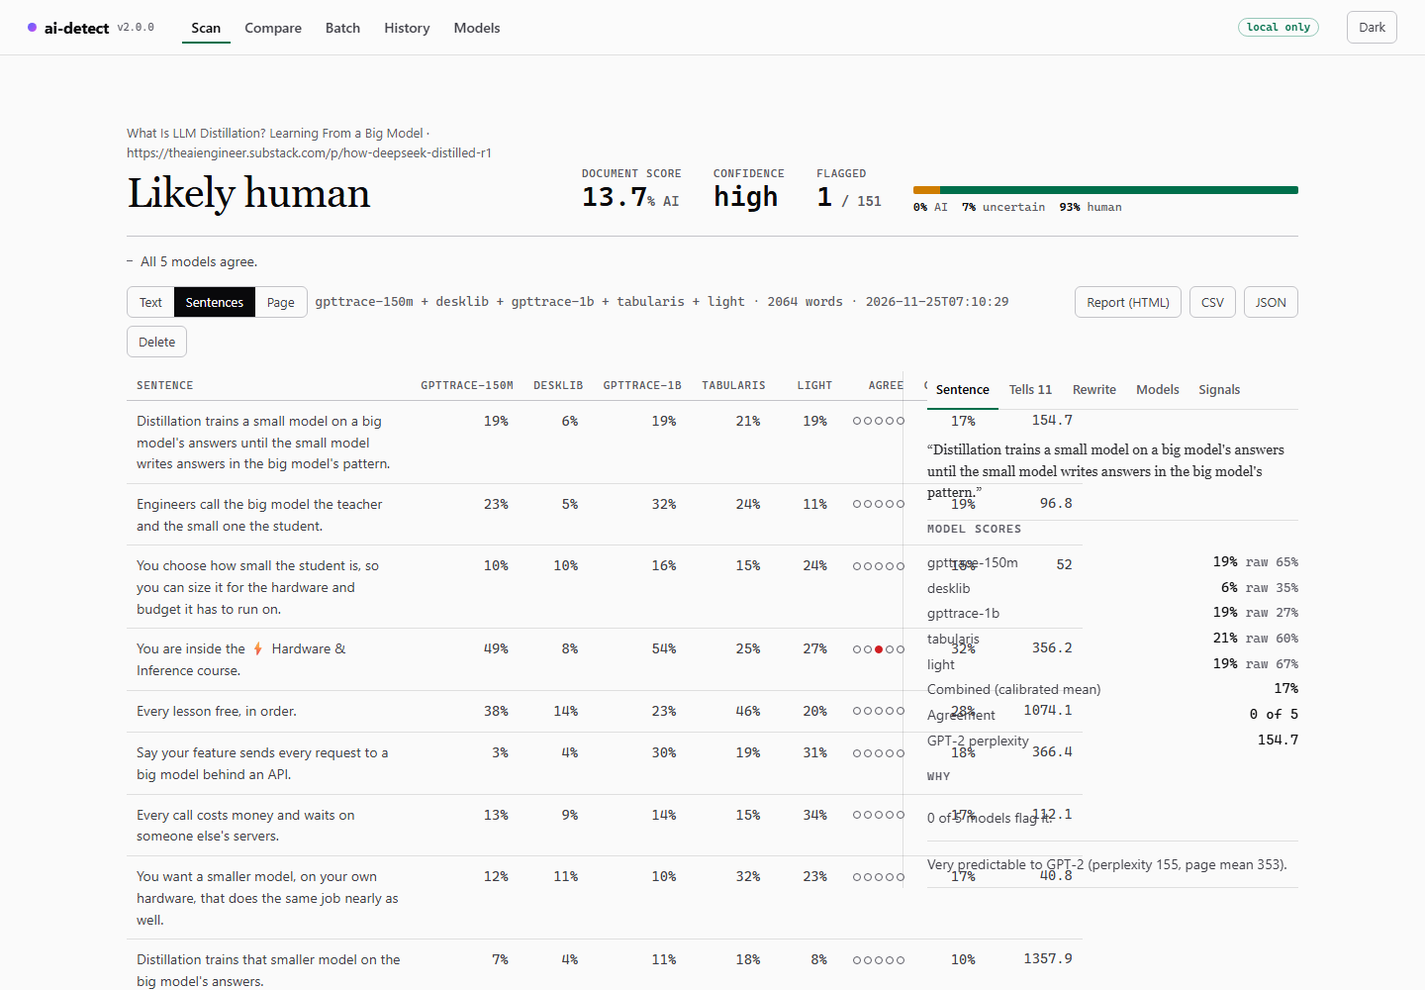
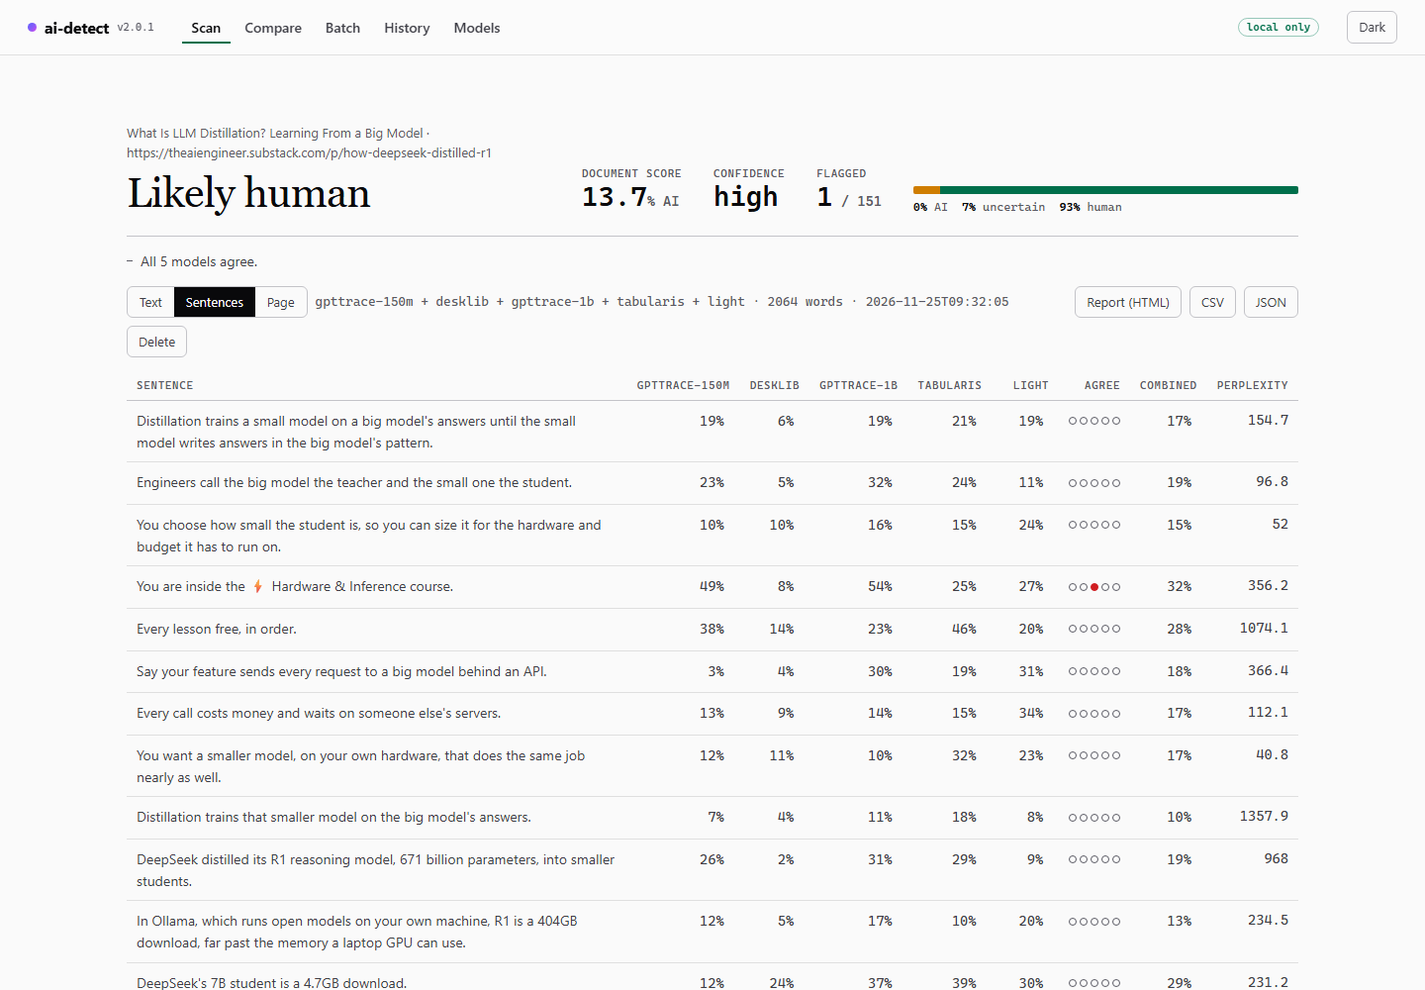
release: 2.0.1 (version, changelog, docs corrected for the 2.0.0 release, screenshots retaken)
- Version 2.0.1 in _version.py, package.json, manifest.json, server.json.
- Docs: npm package and MCP registry entry exist (2.0.0, 25 Nov 2026),
  still not on PyPI; npm commands are the forms that were run; Rewrite
  tab described as the code behaves; desklib is one of the two largest
  downloads.
- Screenshots retaken with 2.0.1; worked-example figures unchanged.

diff --git a/ai_detect/_version.py b/ai_detect/_version.py
@@ -1,1 +1,1 @@
-__version__ = "2.0.0"
+__version__ = "2.0.1"

diff --git a/docs/FEATURES.md b/docs/FEATURES.md
@@ -1,6 +1,6 @@
-# ai-detect 2.0.0: feature inventory
+# ai-detect 2.0.1: feature inventory
 
-A plain, factual list of what the tool does on the `rebuild-2026-11` branch, written for whoever writes the README. Every command output below was produced by running that command on 25 Nov 2026 (Windows 11, Python 3.13, CPU); this file is generated by `scripts/build_features_doc.py` from `docs/features.template.md`, so re-run the script after a code change. Model facts carry their source and read date. Nothing here is published: no PyPI, npm or registry upload has been made.
+A plain, factual list of what the tool does, from the code on the `main` branch, written for whoever writes the README. Every command output below was produced by running that command on 25 Nov 2026 (Windows 11, Python 3.13, CPU); this file is generated by `scripts/build_features_doc.py` from `docs/features.template.md`, so re-run the script after a code change. Model facts carry their source and read date. Published on 25 Nov 2026: the npm package `@houtini/ai-detect` (2.0.0) and the MCP registry entry `io.github.houtini-ai/ai-detect` (active). It is not on PyPI.
 
 Related documents: `docs/MODEL-EVAL-2026-11.md` (measurements and which model to pick), `docs/HOW-IT-WORKS.md` (diagrams), `CHANGELOG.md`, `THIRD-PARTY-MODELS.md`.
 
@@ -10,7 +10,18 @@ A local AI-text detector. It scores writing with open detector models that run o
 
 ## 2. Install, exactly as it works today
 
-Not on PyPI and not on npm (both names checked free on 24 Nov 2026: `https://pypi.org/pypi/ai-detect/json` and `https://registry.npmjs.org/@houtini%2fai-detect` return 404). Install is from a clone.
+On npm as `@houtini/ai-detect` (2.0.0 published 25 Nov 2026) and in the MCP registry as `io.github.houtini-ai/ai-detect` (active). **Not on PyPI**: there is no `pip install ai-detect`, and the pip route is from a clone. Two routes.
+
+From npm. Needs `uv` on the PATH; the launcher has `uv` supply Python and the dependencies:
+
+```bash
+npx -y --package @houtini/ai-detect ai-detect --version   # run without installing
+npm i -g @houtini/ai-detect                               # or install the `ai-detect` and `ai-detect-mcp` commands
+```
+
+Both were run against the published 2.0.0 on Windows 11 with `uv` on 25 Nov 2026. The first run took 31 s for the `npx` form and 34 s for the globally installed command, and the MCP server passed its smoke test both ways (section 4). The package has two commands, so name the one to run after `--package`.
+
+From a clone:
 
 ```bash
 git clone https://github.com/houtini-ai/ai-detect
@@ -67,7 +78,7 @@ A model that is not on disk is downloaded first, with a progress bar on stderr. 
 
 ```
 $ ai-detect --version
-ai-detect 2.0.0
+ai-detect 2.0.1
 ```
 Exit code 0.
 
@@ -322,7 +333,9 @@ Args:
     text: The text to analyse (plain text or Markdown).
     model: A model id, or up to 5 comma-separated ids to run as an ensemble
         (see list_models). Default 'gpttrace-150m'.
-    device: 'auto' (GPU if available, else CPU), 'cpu', or 'cuda'.
+    device: 'auto', 'cpu', or 'cuda'. With 'auto' the ONNX models (the default model is
+        one) run on the CPU unless a GPU build of ONNX Runtime is installed, and the
+        PyTorch models use CUDA if torch has it, else the CPU.
     include_all_sentences: Also return every scored sentence, not just flagged ones.
     perplexity: Add a GPT-2 perplexity and burstiness readout (548 MB on first use).
 
@@ -539,7 +552,7 @@ When a needed model is not on disk the same tools return, at once:
  "default_port": 18795,
  "port_fell_back": false,
  "history_enabled": true,
- "version": "2.0.0",
+ "version": "2.0.1",
  "message": "The ai-detect dashboard is at http://127.0.0.1:18795"
 }
 ```
@@ -602,7 +615,7 @@ Claude Code:
 claude mcp add ai-detect -- ai-detect-mcp
 ```
 
-After an npm release (not made yet) the command would be `npx -y @houtini/ai-detect` with `"args": ["-y", "--package", "@houtini/ai-detect", "ai-detect-mcp"]`; this form was exercised from a locally packed tarball only. The `python -m` form is the one the automated tests use. The Claude Desktop and Claude Code snippets follow those clients' standard format; they were not loaded into either client during this work: the full-path form was started the way a client starts it (the command alone, no shell, virtual environment not activated), by `scripts/smoke_mcp.mjs`.
+From npm (2.0.0, published 25 Nov 2026) the client's command is `npx` with `"args": ["-y", "--package", "@houtini/ai-detect", "ai-detect-mcp"]`, or plain `ai-detect-mcp` after `npm i -g @houtini/ai-detect`. Both were driven by an MCP client on Windows 11 with `uv` on 25 Nov 2026 (the `npx` form started through `cmd /c`) and passed the MCP smoke test. The `python -m` form is the one the automated tests use. The Claude Desktop and Claude Code snippets follow those clients' standard format; they were not loaded into either client during this work: the full-path form was started the way a client starts it (the command alone, no shell, virtual environment not activated), by `scripts/smoke_mcp.mjs`.
 
 ## 5. Web UI
 
@@ -611,7 +624,7 @@ Start: `ai-detect serve` (opens the browser), or the MCP tool `open_dashboard`, 
 | Page | What it does |
 |---|---|
 | **Scan** | Text box (paste, or drop a `.txt`/`.md`/`.html` file on it), URL box, file picker. Model picker: one model or up to five (a sixth tick is refused); shows size, RAID rank and download state. Options: perplexity; load models one at a time. Progress: per-model download bars, then per-model loading/scoring |
-| **Result** (`#/scan/<id>`) | Verdict first: label, calibrated document score, confidence, flagged count, and a bar of words reading as AI / uncertain / human, with notes. Three views: **Text** (sentences shaded amber to red by calibrated score, with an underline that changes by band; pattern matches underlined), **Sentences** (a table with one column per model, agreement dots and the combined score), **Page** (URL scans: the screenshot with tells outlined and numbered). Side panel tabs: **Sentence** (per-model scores, why, rewrite suggestions), **Tells** (click one to highlight its blocks or its region), **Rewrite** (every flagged sentence with its suggestions), **Models** (facts and each model's view), **Signals** (sentence-length variation, perplexity and burstiness, passages, optional vision second opinion). Export: HTML report, CSV, JSON. Delete |
+| **Result** (`#/scan/<id>`) | Verdict first: label, calibrated document score, confidence, flagged count, and a bar of words reading as AI / uncertain / human, with notes. Three views: **Text** (sentences shaded amber to red by calibrated score, with an underline that changes by band; pattern matches underlined), **Sentences** (a table with one column per model, agreement dots and the combined score; it takes the full width with the side panel under it, and scrolls sideways in its own box if it is still too wide), **Page** (URL scans: the screenshot with tells outlined and numbered). Side panel tabs: **Sentence** (per-model scores, why, rewrite suggestions), **Tells** (click one to highlight its blocks or its region), **Rewrite** (every sentence with a calibrated score of 50% or more, or with any pattern hit, highest score first, each with its suggestions), **Models** (facts and each model's view), **Signals** (sentence-length variation, perplexity and burstiness, passages, optional vision second opinion). Export: HTML report, CSV, JSON. Delete |
 | **Compare** | Two boxes (text or one URL each). Shows both verdicts side by side and a table: verdict, calibrated document score, sentences flagged at the operating point, then (one model only, labelled raw) the raw document score, raw mean sentence score and sentences over 50%, then pattern hits and tells, each with before, after, change |
 | **Batch** | One URL or file path per line and/or several dropped files. Rows appear as they finish; failed items show the error. CSV summary download |
 | **History** | Every scan made through the dashboard or the MCP server, newest first (command-line scans are not saved); click to reopen. The Document column is the calibrated document score, as on the result page. A switch turns saving to disk off; Clear history deletes all |
@@ -727,7 +740,7 @@ Limits: the check and the browser each resolve the name, so a DNS answer that ch
 
 Sources: https://gptzero.me/technology and https://gptzero.me/news/how-ai-detectors-work, both read 24 Nov 2026 (public pages only; no account, nothing submitted). GPTZero is a hosted product with a trained, benchmarked model; ai-detect runs other people's open models locally. The table is about features, not accuracy. On RAID's default view GPTZero is 26th of 61 (0.9724) and the best model here, GPTTrace-1B, is 2nd (0.9993), same source and date as the model table; ai-detect ships a 4-bit export of that model, not the ranked file.
 
-| Capability | GPTZero (per its pages) | ai-detect 2.0.0 | |
+| Capability | GPTZero (per its pages) | ai-detect 2.0.1 | |
 |---|---|---|---|
 | Runs without uploading the text | No, hosted | Yes | exceeds |
 | Verdict with a confidence statement | Yes | Yes | matches |
@@ -785,6 +798,6 @@ Diagrams (original, in the Houtini palette): `docs/diagrams/pipeline.svg` (how a
 
 ## 12. Tests
 
-- `python -m pytest --ignore=tests/ui`: 255 tests, no model or network needed except `tests/test_mcp_stdio.py`, which runs the real MCP server with the `light` model and is skipped if that model is not downloaded.
-- `python -m pytest tests/ui`: 44 browser tests of every dashboard control and error path, with a fake backend and a simulated download. Skipped without Playwright.
+- `python -m pytest --ignore=tests/ui`: 256 tests, no model or network needed except `tests/test_mcp_stdio.py`, which runs the real MCP server with the `light` model and is skipped if that model is not downloaded.
+- `python -m pytest tests/ui`: 52 browser tests of every dashboard control and error path, with a fake backend and a simulated download. Skipped without Playwright.
 - `python scripts/release_check.py`: versions, lint, tests, secret scan of the branch history, npm tarball whitelist, and an install-and-scan smoke test of the packed tarball.

diff --git a/docs/features.template.md b/docs/features.template.md
@@ -1,6 +1,6 @@
-# ai-detect 2.0.0: feature inventory
+# ai-detect 2.0.1: feature inventory
 
-A plain, factual list of what the tool does on the `rebuild-2026-11` branch, written for whoever writes the README. Every command output below was produced by running that command on 25 Nov 2026 (Windows 11, Python 3.13, CPU); this file is generated by `scripts/build_features_doc.py` from `docs/features.template.md`, so re-run the script after a code change. Model facts carry their source and read date. Nothing here is published: no PyPI, npm or registry upload has been made.
+A plain, factual list of what the tool does, from the code on the `main` branch, written for whoever writes the README. Every command output below was produced by running that command on 25 Nov 2026 (Windows 11, Python 3.13, CPU); this file is generated by `scripts/build_features_doc.py` from `docs/features.template.md`, so re-run the script after a code change. Model facts carry their source and read date. Published on 25 Nov 2026: the npm package `@houtini/ai-detect` (2.0.0) and the MCP registry entry `io.github.houtini-ai/ai-detect` (active). It is not on PyPI.
 
 Related documents: `docs/MODEL-EVAL-2026-11.md` (measurements and which model to pick), `docs/HOW-IT-WORKS.md` (diagrams), `CHANGELOG.md`, `THIRD-PARTY-MODELS.md`.
 
@@ -10,7 +10,18 @@ A local AI-text detector. It scores writing with open detector models that run o
 
 ## 2. Install, exactly as it works today
 
-Not on PyPI and not on npm (both names checked free on 24 Nov 2026: `https://pypi.org/pypi/ai-detect/json` and `https://registry.npmjs.org/@houtini%2fai-detect` return 404). Install is from a clone.
+On npm as `@houtini/ai-detect` (2.0.0 published 25 Nov 2026) and in the MCP registry as `io.github.houtini-ai/ai-detect` (active). **Not on PyPI**: there is no `pip install ai-detect`, and the pip route is from a clone. Two routes.
+
+From npm. Needs `uv` on the PATH; the launcher has `uv` supply Python and the dependencies:
+
+```bash
+npx -y --package @houtini/ai-detect ai-detect --version   # run without installing
+npm i -g @houtini/ai-detect                               # or install the `ai-detect` and `ai-detect-mcp` commands
+```
+
+Both were run against the published 2.0.0 on Windows 11 with `uv` on 25 Nov 2026. The first run took 31 s for the `npx` form and 34 s for the globally installed command, and the MCP server passed its smoke test both ways (section 4). The package has two commands, so name the one to run after `--package`.
+
+From a clone:
 
 ```bash
 git clone https://github.com/houtini-ai/ai-detect
@@ -166,7 +177,7 @@ Claude Code:
 claude mcp add ai-detect -- ai-detect-mcp
 ```
 
-After an npm release (not made yet) the command would be `npx -y @houtini/ai-detect` with `"args": ["-y", "--package", "@houtini/ai-detect", "ai-detect-mcp"]`; this form was exercised from a locally packed tarball only. The `python -m` form is the one the automated tests use. The Claude Desktop and Claude Code snippets follow those clients' standard format; they were not loaded into either client during this work: the full-path form was started the way a client starts it (the command alone, no shell, virtual environment not activated), by `scripts/smoke_mcp.mjs`.
+From npm (2.0.0, published 25 Nov 2026) the client's command is `npx` with `"args": ["-y", "--package", "@houtini/ai-detect", "ai-detect-mcp"]`, or plain `ai-detect-mcp` after `npm i -g @houtini/ai-detect`. Both were driven by an MCP client on Windows 11 with `uv` on 25 Nov 2026 (the `npx` form started through `cmd /c`) and passed the MCP smoke test. The `python -m` form is the one the automated tests use. The Claude Desktop and Claude Code snippets follow those clients' standard format; they were not loaded into either client during this work: the full-path form was started the way a client starts it (the command alone, no shell, virtual environment not activated), by `scripts/smoke_mcp.mjs`.
 
 ## 5. Web UI
 
@@ -175,7 +186,7 @@ Start: `ai-detect serve` (opens the browser), or the MCP tool `open_dashboard`, 
 | Page | What it does |
 |---|---|
 | **Scan** | Text box (paste, or drop a `.txt`/`.md`/`.html` file on it), URL box, file picker. Model picker: one model or up to five (a sixth tick is refused); shows size, RAID rank and download state. Options: perplexity; load models one at a time. Progress: per-model download bars, then per-model loading/scoring |
-| **Result** (`#/scan/<id>`) | Verdict first: label, calibrated document score, confidence, flagged count, and a bar of words reading as AI / uncertain / human, with notes. Three views: **Text** (sentences shaded amber to red by calibrated score, with an underline that changes by band; pattern matches underlined), **Sentences** (a table with one column per model, agreement dots and the combined score), **Page** (URL scans: the screenshot with tells outlined and numbered). Side panel tabs: **Sentence** (per-model scores, why, rewrite suggestions), **Tells** (click one to highlight its blocks or its region), **Rewrite** (every flagged sentence with its suggestions), **Models** (facts and each model's view), **Signals** (sentence-length variation, perplexity and burstiness, passages, optional vision second opinion). Export: HTML report, CSV, JSON. Delete |
+| **Result** (`#/scan/<id>`) | Verdict first: label, calibrated document score, confidence, flagged count, and a bar of words reading as AI / uncertain / human, with notes. Three views: **Text** (sentences shaded amber to red by calibrated score, with an underline that changes by band; pattern matches underlined), **Sentences** (a table with one column per model, agreement dots and the combined score; it takes the full width with the side panel under it, and scrolls sideways in its own box if it is still too wide), **Page** (URL scans: the screenshot with tells outlined and numbered). Side panel tabs: **Sentence** (per-model scores, why, rewrite suggestions), **Tells** (click one to highlight its blocks or its region), **Rewrite** (every sentence with a calibrated score of 50% or more, or with any pattern hit, highest score first, each with its suggestions), **Models** (facts and each model's view), **Signals** (sentence-length variation, perplexity and burstiness, passages, optional vision second opinion). Export: HTML report, CSV, JSON. Delete |
 | **Compare** | Two boxes (text or one URL each). Shows both verdicts side by side and a table: verdict, calibrated document score, sentences flagged at the operating point, then (one model only, labelled raw) the raw document score, raw mean sentence score and sentences over 50%, then pattern hits and tells, each with before, after, change |
 | **Batch** | One URL or file path per line and/or several dropped files. Rows appear as they finish; failed items show the error. CSV summary download |
 | **History** | Every scan made through the dashboard or the MCP server, newest first (command-line scans are not saved); click to reopen. The Document column is the calibrated document score, as on the result page. A switch turns saving to disk off; Clear history deletes all |
@@ -276,7 +287,7 @@ Limits: the check and the browser each resolve the name, so a DNS answer that ch
 
 Sources: https://gptzero.me/technology and https://gptzero.me/news/how-ai-detectors-work, both read 24 Nov 2026 (public pages only; no account, nothing submitted). GPTZero is a hosted product with a trained, benchmarked model; ai-detect runs other people's open models locally. The table is about features, not accuracy. On RAID's default view GPTZero is 26th of 61 (0.9724) and the best model here, GPTTrace-1B, is 2nd (0.9993), same source and date as the model table; ai-detect ships a 4-bit export of that model, not the ranked file.
 
-| Capability | GPTZero (per its pages) | ai-detect 2.0.0 | |
+| Capability | GPTZero (per its pages) | ai-detect 2.0.1 | |
 |---|---|---|---|
 | Runs without uploading the text | No, hosted | Yes | exceeds |
 | Verdict with a confidence statement | Yes | Yes | matches |

diff --git a/README.md b/README.md
@@ -74,7 +74,7 @@ For Claude Desktop, this goes in `claude_desktop_config.json`:
 }
 ```
 
-This route was checked from a locally packed copy of the package, on Windows and in a clean Linux container: the install, an MCP handshake and a scan.
+This route was checked from a locally packed copy of the package, on Windows and in a clean Linux container: the install, an MCP handshake and a scan. The published 2.0.0 package was then run on Windows 11 on 25 Nov 2026: `npx -y --package @houtini/ai-detect ai-detect --version`, and the MCP server driven by an MCP client. `npm i -g @houtini/ai-detect` was run there too, and it gives you the `ai-detect` and `ai-detect-mcp` commands.
 
 ### Clone and pip on Windows
 
@@ -89,7 +89,7 @@ pip install .
 ai-detect --version
 ```
 
-That prints `ai-detect 2.0.0`. The install takes a bit over a minute and the virtual environment comes to 938 MB. It works from a user folder with a space in its name.
+That prints `ai-detect 2.0.1`. The install takes a bit over a minute and the virtual environment comes to 938 MB. It works from a user folder with a space in its name.
 
 ### Clone and pip on Linux
 
@@ -231,7 +231,7 @@ And five tabs in the side panel:
 |---|---|
 | **Sentence** | Each model's score for the selected sentence, why it was flagged, rewrite suggestions |
 | **Tells** | The structure and style tells. Click one to highlight its blocks or its region |
-| **Rewrite** | Every flagged sentence with its suggestions |
+| **Rewrite** | Every sentence with a calibrated score of 50% or more, or with a pattern hit, with its suggestions |
 | **Models** | Each model's facts and its view of the document |
 | **Signals** | Sentence-length variation, perplexity and burstiness, the passages, and the optional vision second opinion |
 
@@ -757,13 +757,13 @@ If you're coming from a hosted detector such as GPTZero, the trade is roughly th
 ```bash
 pip install ".[all]"
 pip install ".[dev]"
-python -m pytest --ignore=tests/ui     # 255 tests
-python -m pytest tests/ui              # 44 browser tests
+python -m pytest --ignore=tests/ui     # 256 tests
+python -m pytest tests/ui              # 52 browser tests
 python scripts/release_check.py
 ```
 
-- The 255 tests need no model and no network, except `tests/test_mcp_stdio.py`, which runs the real MCP server with the `light` model and is skipped if that model isn't downloaded.
-- The 44 browser tests cover every dashboard control and error path, with a fake backend and a simulated download. They're skipped without Playwright.
+- The 256 tests need no model and no network, except `tests/test_mcp_stdio.py`, which runs the real MCP server with the `light` model and is skipped if that model isn't downloaded.
+- The 52 browser tests cover every dashboard control and error path, and the layout by bounding box, with a fake backend and a simulated download. They're skipped without Playwright.
 - `scripts/release_check.py` checks versions, lint and tests, scans the branch history for secrets, checks the npm tarball, and runs an install-and-scan smoke test.
 
 Where things live:

diff --git a/CHANGELOG.md b/CHANGELOG.md
@@ -1,6 +1,22 @@
 # Changelog
 
-## [2.0.0] - 2026-11-25 (prepared, not published)
+## [2.0.1] - 2026-11-25
+
+A patch to 2.0.0. No change to the models, the scores, the CLI flags or the MCP tools.
+
+### Fixed
+- **The Sentences view drew its table over the side panel.** On a result page with several models (five, plus the perplexity column, in the reported case) the table was wider than its column, so the Combined and Perplexity columns were printed on top of the side panel. The Sentences view now takes the full width with the side panel under it, and the table scrolls sideways inside its own box if it is still too wide. Text and Page views are unchanged. Clicking a row marks it and brings its detail into view.
+- The HTML report's Models table headed each model's own document probability "Doc score". It is the raw figure, and the heading now says "Doc score (raw)".
+- `--help` said `--device auto` means "GPU if available". For the ONNX models, the default among them, a standard install runs on the CPU even with a GPU present. The help text and the `detect_ai_text` tool description now say what happens for each model family.
+
+### Changed
+- Docs: statements written before the release are corrected. The npm package `@houtini/ai-detect` and the MCP registry entry `io.github.houtini-ai/ai-detect` exist (2.0.0, 25 Nov 2026); the tool is still not on PyPI. The npm commands given are the ones that were run against the published package. The Rewrite tab is described as the code behaves: sentences with a calibrated score of 50% or more, or with any pattern hit.
+- All screenshots retaken with 2.0.1 from the same worked-example page. Its figures came out the same as on the 2.0.0 run.
+
+### Tests
+- Browser tests that measure bounding boxes: the Sentences table against the side panel from 1100 to 1920 px, with one model and with five models plus perplexity; the other views, side tabs and pages at 1440 px.
+
+## [2.0.0] - 2026-11-25
 
 Previous version: 1.0.0. This is a major version because existing installs are affected: the default model changes from `desklib` to `gpttrace-150m`, the Python floor rises from 3.9 to 3.11, the MCP server now runs detection in a second process, and `get_model_status` gains states it did not have before. The CLI flags and the five original MCP tool names, parameters and result keys are unchanged.
 

diff --git a/docs/MODEL-EVAL-2026-11.md b/docs/MODEL-EVAL-2026-11.md
@@ -52,7 +52,7 @@ Sources for licence, size and rank: the model card and the Hugging Face API for 
 - **What it is.** desklib/ai-text-detector-v1.01, DeBERTa-v3-large, 434M parameters, 1.74 GB, MIT. https://huggingface.co/desklib/ai-text-detector-v1.01
 - **RAID.** 42nd of 61, 0.912. It was first when submitted on 16 Feb 2025.
 - **Strengths, measured.** Strong on passages here (AUROC 0.996, 97% at 5% FPR). Loads with stock transformers and torch. Permissive licence.
-- **Weaknesses, measured.** Largest download with the second-slowest CPU speed. Flags 60% of human sentences and 17 of 24 casual sentences at 0.5. Sentence-level catch rate at 5% FPR is 17%, joint lowest with conpara.
+- **Weaknesses, measured.** One of the two largest downloads (1736 MB; conpara is 1738 MB), with the second-slowest CPU speed. Flags 60% of human sentences and 17 of 24 casual sentences at 0.5. Sentence-level catch rate at 5% FPR is 17%, joint lowest with conpara.
 - **Quirks.** Custom mean-pooled head defined in code. bfloat16 on CUDA, float32 on CPU, so scores differ slightly by device.
 
 ### light (TMR, int8 ONNX)
